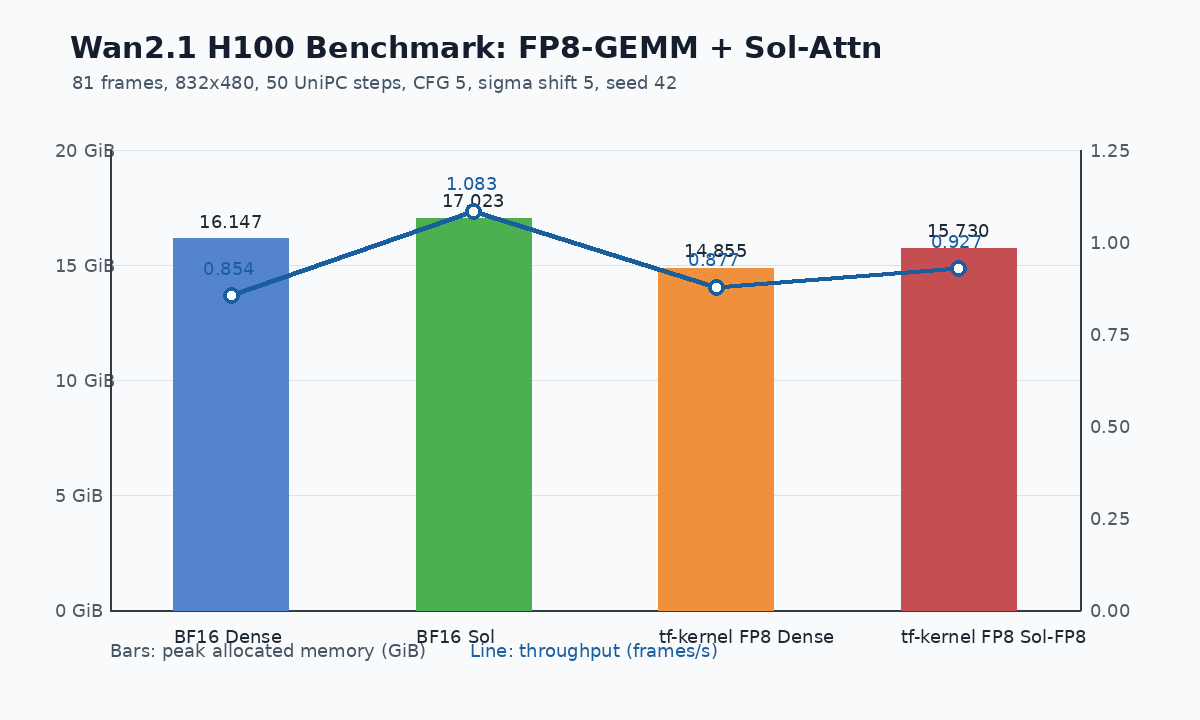
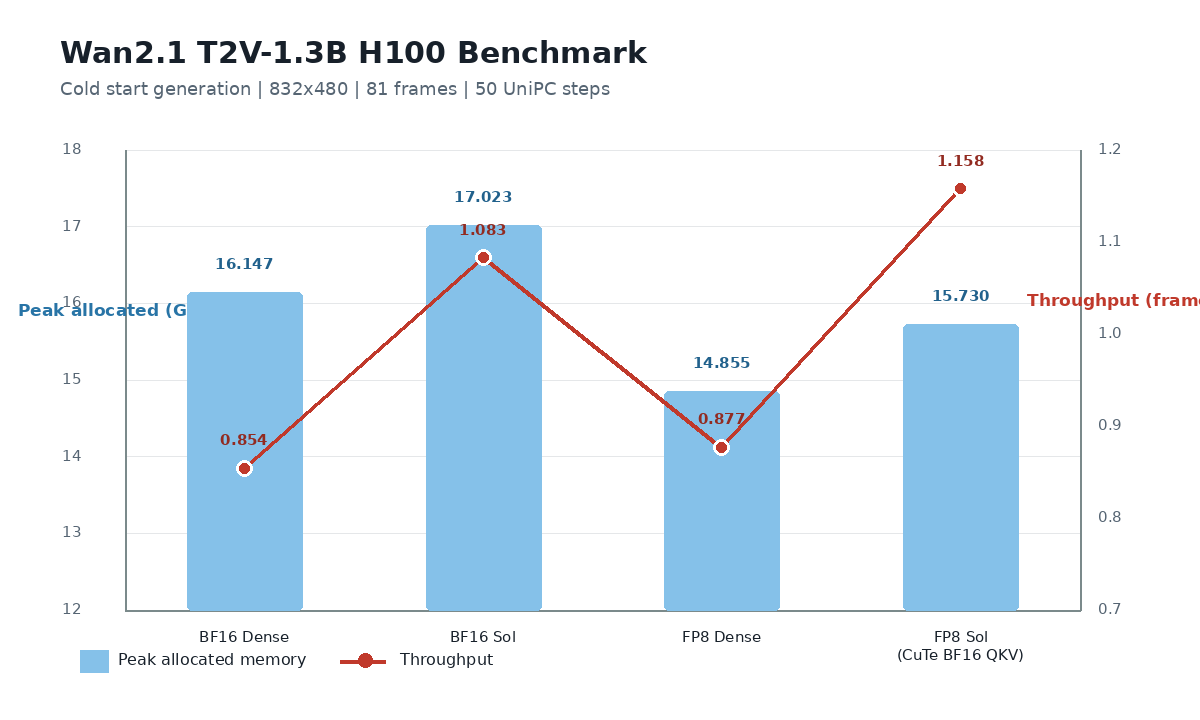
perf(wan): keep H100 Sol-Attn on CuTe

diff --git a/telefuser/kernel/sol_attn/interface.py b/telefuser/kernel/sol_attn/interface.py
@@ -370,6 +370,23 @@ def sol_attn(
                 raise ValueError(f"{name} must have shape {expected_scale_shape} on the Q/K/V device")
             if not tensor.is_contiguous():
                 raise ValueError(f"{name} must be contiguous")
+        # Use the production CuTe path on SM90 until its native FP8 mainloop
+        # is available; the pointer Triton fallback is substantially slower.
+        arch = tuple(torch.cuda.get_device_capability(q.device))
+        if arch == (9, 0) and _cute_runtime_available():
+            from telefuser.ops.fp8_attention import dequantize_fp8_per_block
+
+            return sol_attn(
+                dequantize_fp8_per_block(q, q_scale, torch.bfloat16),
+                dequantize_fp8_per_block(k, k_scale, torch.bfloat16),
+                dequantize_fp8_per_block(v, v_scale, torch.bfloat16),
+                scale=scale,
+                tau=tau,
+                thresh_type=thresh_type,
+                kv_splits=kv_splits,
+                sink_tokens=sink_tokens,
+                sink_start=sink_start,
+            )
         from .triton_ref import sol_attn as triton_sol_attn
 
         return triton_sol_attn(

diff --git a/telefuser/models/wan_video_dit.py b/telefuser/models/wan_video_dit.py
@@ -148,7 +148,16 @@ class SelfAttention(nn.Module):
         v: torch.Tensor,
         sparse_state: SparseAttentionState | None,
     ) -> tuple[torch.Tensor, torch.Tensor, torch.Tensor, tuple[torch.Tensor, torch.Tensor, torch.Tensor] | None]:
-        if self._is_sol_active(sparse_state) and sparse_state is not None and sparse_state.config.sol_fp8:
+        # H100 currently has no native FP8 CuTe Sol-Attn mainloop. Keeping
+        # QKV in BF16 lets the production SM90 kernel run without paying the
+        # quantize/dequantize overhead that otherwise makes this path slower.
+        native_fp8_sol = not (q.is_cuda and torch.cuda.get_device_capability(q.device) == (9, 0))
+        if (
+            self._is_sol_active(sparse_state)
+            and sparse_state is not None
+            and sparse_state.config.sol_fp8
+            and native_fp8_sol
+        ):
             q, q_scale = quantize_fp8_per_block(q)
             k, k_scale = quantize_fp8_per_block(k)
             v, v_scale = quantize_fp8_per_block(v)

diff --git a/examples/wan_video/README.md b/examples/wan_video/README.md
@@ -182,7 +182,7 @@ Attention choices:
 
 - `dense`: PyTorch SDPA
 - `sol`: Sol-Attn with dense warm-up and fallback calls
-- `sol-fp8`: FP8 QKV inputs with FP8 Sol-Attn QK/PV GEMMs
+- `sol-fp8`: FP8 Sol-Attn mode; on H100 it keeps QKV in BF16 for the optimized CuTe kernel
 
 Quantization choices:
 
@@ -220,10 +220,12 @@ python examples/wan_video/wan21_1_3b_text_to_video_optimized_h100.py \
     --kv-splits auto
 ```
 
-`tf-kernel-fp8` is the FP8-GEMM implementation benchmarked below. `sol-fp8`
-quantizes post-RoPE Q/K/V per 64-token block and
-runs exact Sol-Attn QK/PV GEMMs with FP8 inputs and FP32 accumulation; routing
-summaries remain BF16/FP32. The SOL tuning options apply to both `sol` modes.
+`tf-kernel-fp8` is the FP8-GEMM implementation benchmarked below. On H100,
+`sol-fp8` keeps QKV in BF16 so it can use the optimized CuTe SM90 Sol-Attn
+mainloop; this avoids a slower quantize/dequantize detour because a native FP8
+CuTe Sol-Attn mainloop is not available yet. On architectures with a native FP8
+Sol-Attn backend, it quantizes post-RoPE Q/K/V per 64-token block and runs exact
+FP8 QK/PV GEMMs with FP32 accumulation. The SOL tuning options apply to both modes.
 The final log reports generation time, frames per second, and peak allocated and
 reserved CUDA memory.
 
@@ -241,7 +243,7 @@ same generation interval.
 | BF16 | Dense | 0.854 | 16.147 |
 | BF16 | Sol-Attn | 1.083 | 17.023 |
 | tf-kernel FP8 | Dense | 0.877 | 14.855 |
-| tf-kernel FP8 | Sol-FP8 | 0.927 | 15.730 |
+| tf-kernel FP8 | Sol-FP8 (H100 CuTe BF16 QKV) | 1.158 | 15.730 |
 
 ![Wan FP8-GEMM Sol-Attn H100 benchmark](assets/wan21_fp8_sol_h100_benchmark.png)
 
